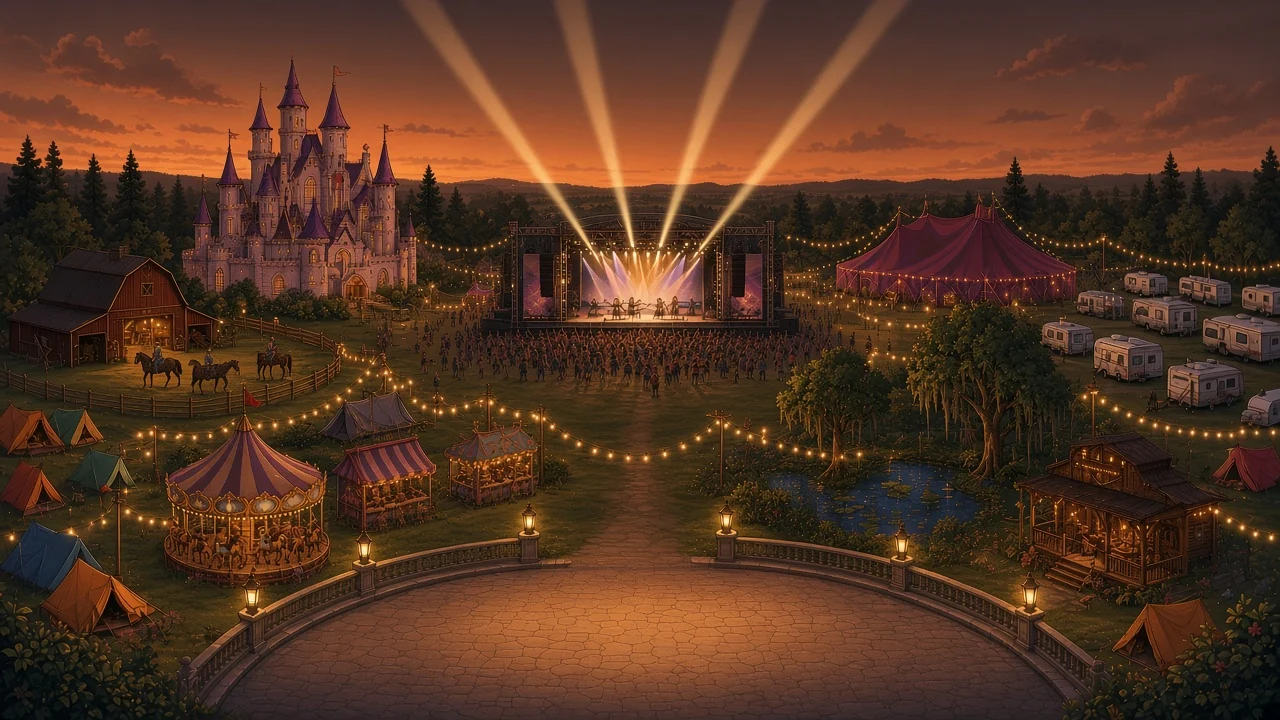
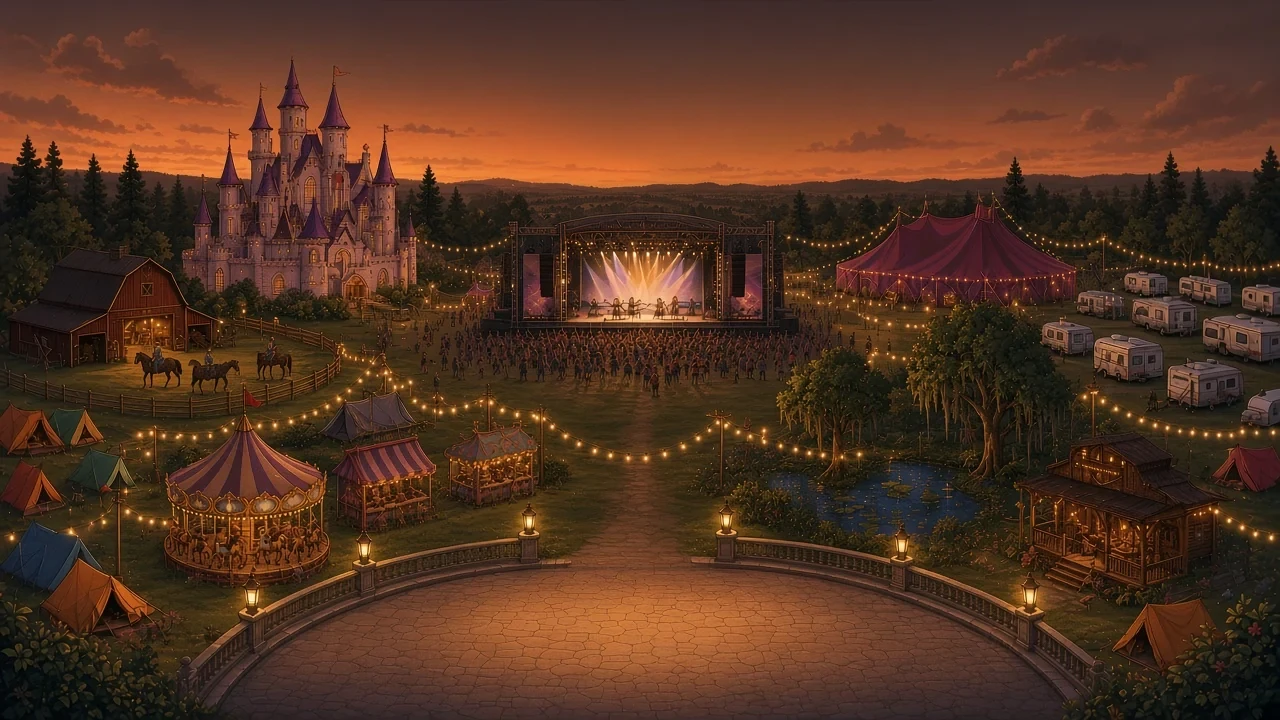
Fire Horse Plaza: remove stage light beams from background, fixed symmetrical section separators

Changed region(s): [[0.3125, 0.0, 0.7188, 0.3972]]

diff --git a/fire-horse-plaza/plaza.css b/fire-horse-plaza/plaza.css
@@ -9,7 +9,7 @@ img { display: block; max-width: 100%; height: auto; }
 
 .scene { position: fixed; inset: 0; z-index: 0; overflow: hidden; pointer-events: none; }
 .layer { will-change: transform; }
-.sky { position: absolute; inset: -6% 0 0; background: linear-gradient(rgba(30, 18, 11, 0.08), rgba(30, 18, 11, 0.4)), url("art/plaza-bg.webp?v=warm1") center 70% / cover no-repeat; }
+.sky { position: absolute; inset: -6% 0 0; background: linear-gradient(rgba(30, 18, 11, 0.08), rgba(30, 18, 11, 0.4)), url("art/plaza-bg.webp?v=nobeams1") center 70% / cover no-repeat; }
 .glitter { position: absolute; inset: 0; }
 .gl { position: absolute; width: 5px; height: 5px; border-radius: 50%; background: #fff; box-shadow: 0 0 8px 3px rgba(255, 210, 120, 0.85); animation: twinkle var(--d, 3s) ease-in-out var(--delay, 0s) infinite; }
 @keyframes twinkle { 0%, 100% { opacity: 0.05; transform: scale(0.6); } 50% { opacity: 1; transform: scale(1.2); } }
@@ -220,7 +220,7 @@ body { background: linear-gradient(#1e120b, #3a1a0e 60%, #1e120b); }
 
 /* ===== tribal / serious tone ===== */
 :root { --tgold: #e2b75c; --tgold-d: #b9872b; --ember: #8e1f12; --coal: #120905; }
-.sky { background: radial-gradient(ellipse 55% 48% at 50% 20%, rgba(8, 4, 2, 0.72), rgba(8, 4, 2, 0.45) 55%, transparent 100%), radial-gradient(ellipse 75% 70% at 50% 42%, rgba(12, 6, 3, 0.05), rgba(12, 6, 3, 0.55) 100%), linear-gradient(rgba(14, 7, 3, 0.26), rgba(14, 7, 3, 0.45) 55%, rgba(14, 7, 3, 0.72)), url("art/plaza-bg.webp?v=warm1") center 70% / cover no-repeat; filter: saturate(0.82) contrast(1.04); }
+.sky { background: radial-gradient(ellipse 55% 48% at 50% 20%, rgba(8, 4, 2, 0.72), rgba(8, 4, 2, 0.45) 55%, transparent 100%), radial-gradient(ellipse 75% 70% at 50% 42%, rgba(12, 6, 3, 0.05), rgba(12, 6, 3, 0.55) 100%), linear-gradient(rgba(14, 7, 3, 0.26), rgba(14, 7, 3, 0.45) 55%, rgba(14, 7, 3, 0.72)), url("art/plaza-bg.webp?v=nobeams1") center 70% / cover no-repeat; filter: saturate(0.82) contrast(1.04); }
 .gl { opacity: 0.55; box-shadow: 0 0 6px 2px rgba(255, 200, 110, 0.6); width: 4px; height: 4px; }
 
 /* header: thin gold lines instead of bubbly pills */
@@ -281,4 +281,13 @@ body.night .card h2 { text-shadow: 0 2px 8px rgba(0, 0, 0, 0.8); }
   .fv-top { padding-left: 0.75rem; padding-right: 0.75rem; }
   .back, .mini-cta, .dn { white-space: nowrap; font-size: 0.82rem; letter-spacing: 0.03em; padding: 0.45rem 0.65rem; }
   .top-r { gap: 0.4rem; }
+}
+
+/* separators: fixed, symmetrical spacing between sections */
+.feature .art { transform: none !important; }
+.panel.feature, .panel.feature.right, .panel.cta { min-height: 0; padding-top: 6rem; padding-bottom: 6rem; }
+.panel.hero { padding-bottom: 6rem; }
+@media (max-width: 760px) {
+  .panel.feature, .panel.feature.right, .panel.cta { padding-top: 4rem; padding-bottom: 4rem; }
+  .panel.hero { padding-bottom: 4rem; }
 }

diff --git a/fire-horse-plaza/index.html b/fire-horse-plaza/index.html
@@ -9,9 +9,9 @@
     <link rel="icon" href="../favicon.ico?v=2" sizes="any">
     <link rel="icon" href="../favicon-32.png?v=2" sizes="32x32" type="image/png">
     <link rel="apple-touch-icon" href="../apple-touch-icon.png?v=2">
-    <link rel="preload" href="art/plaza-bg.webp?v=warm1" as="image" type="image/webp">
+    <link rel="preload" href="art/plaza-bg.webp?v=nobeams1" as="image" type="image/webp">
     <link rel="preload" href="../fonts/Fraunces.woff2" as="font" type="font/woff2" crossorigin>
-    <link rel="stylesheet" href="plaza.css?v=tribal2">
+    <link rel="stylesheet" href="plaza.css?v=tribal3">
   </head>
   <body class="entering">
     <div class="scene" aria-hidden="true">
@@ -103,6 +103,6 @@
       </div>
     </div>
 
-    <script src="plaza.js?v=3" defer></script>
+    <script src="plaza.js?v=4" defer></script>
   </body>
 </html>

diff --git a/fire-horse-plaza/plaza.js b/fire-horse-plaza/plaza.js
@@ -24,7 +24,7 @@
     }
   }
   if (reduce) return;
-  var layers = [].slice.call(document.querySelectorAll("[data-speed]")), ticking = false;
+  var layers = [].slice.call(document.querySelectorAll(".scene [data-speed]")), ticking = false;
   function update() {
     var y = scrollY;
     layers.forEach(function (el) {
